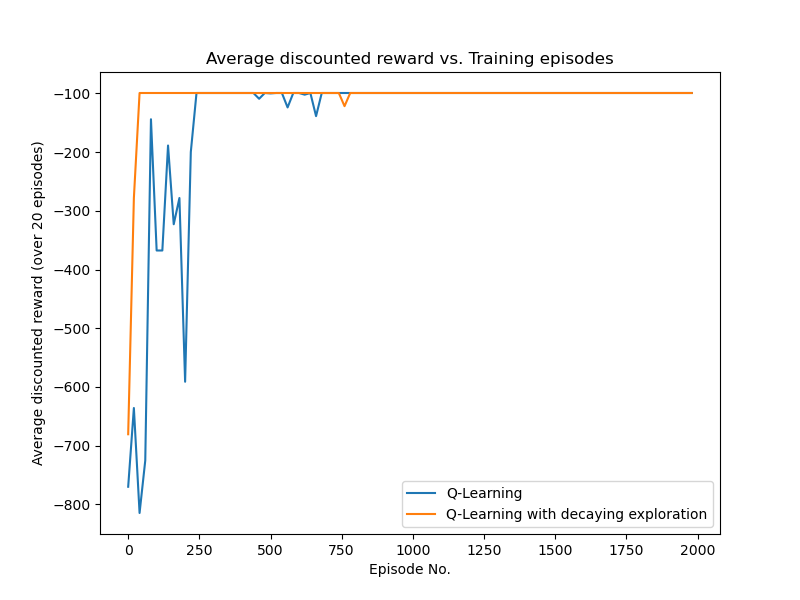
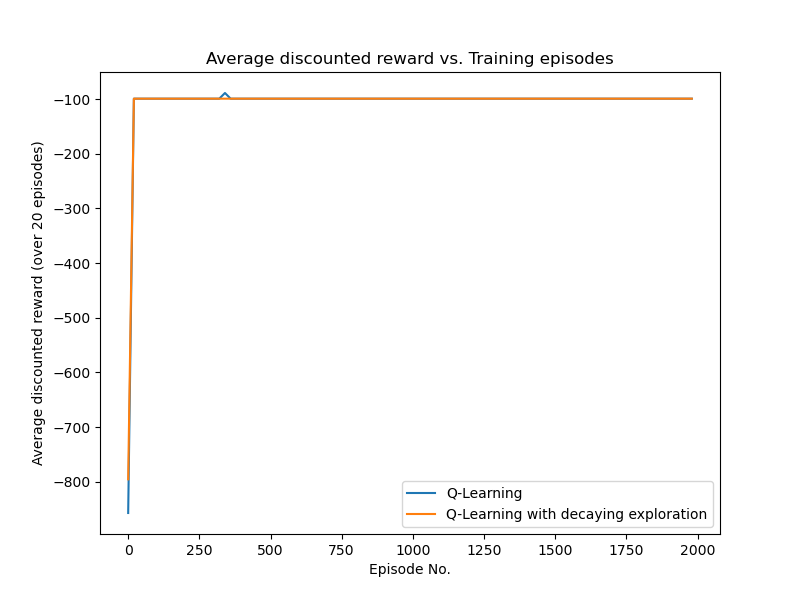
fixed another bug

diff --git a/main_part_B.py b/main_part_B.py
@@ -93,14 +93,14 @@ class Q_Learning:
         discounted_rewards = []
         average_discounted_rewards = []
         episode_nums = []
-        for episode in range(0, num_episodes, 20):
+        for episode in range(num_episodes):
             print(f"Episode no.: {episode}")
             self.initialize_episode()
             num_step = 0
             while not tdp.state == tdp.goal_state and num_step < 500:
                 num_step += 1
                 num_updates += 1
-                print(f"\nStep No.: {num_step}")
+                # print(f"\nStep No.: {num_step}")
                 a = self.choose_action(tdp.state, num_updates)
                 next_state, reward = tdp.take_action(tdp.state, a)
                 max_q_next_state = 0
@@ -112,12 +112,13 @@ class Q_Learning:
                 # tdp.print_state()
                 # print(f"Q({tdp.state}, {a}) updated from {old_q_value} to {self.q_values[(tdp.state, a)]}")
                 tdp.state = next_state
-            print(f"\nEvaluating episode no.: {episode}")
-            policy = self.extract_policy(self.q_values)
-            dr = self.compute_discounted_rewards(policy, 20)
-            discounted_rewards.append(dr)
-            average_discounted_rewards.append(sum(dr)/len(dr))
-            episode_nums.append(episode)
+            if episode%20 == 0:
+                print(f"\nEvaluating episode no.: {episode}")
+                policy = self.extract_policy(self.q_values)
+                dr = self.compute_discounted_rewards(policy, 20)
+                discounted_rewards.append(dr)
+                average_discounted_rewards.append(sum(dr)/len(dr))
+                episode_nums.append(episode)
         return (episode_nums, discounted_rewards, average_discounted_rewards)
 
 # class SARSA_Learning:
